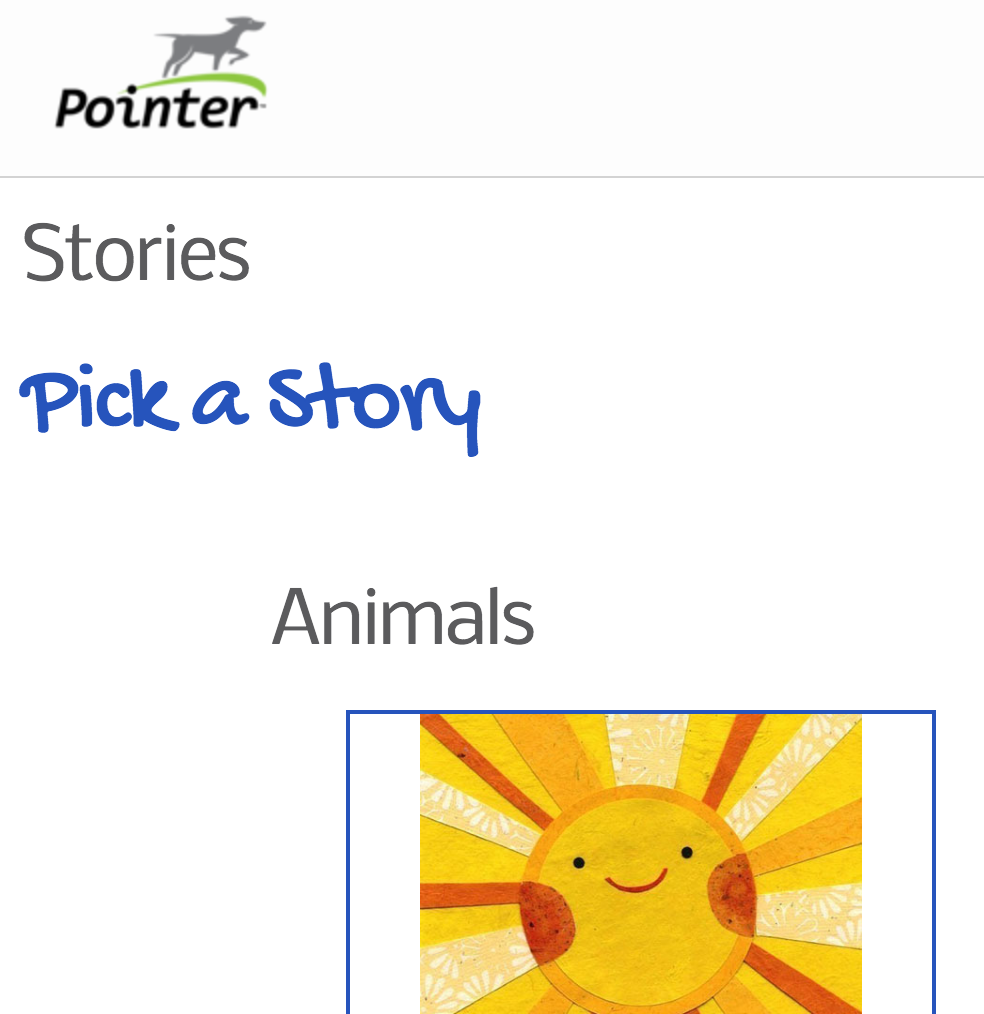
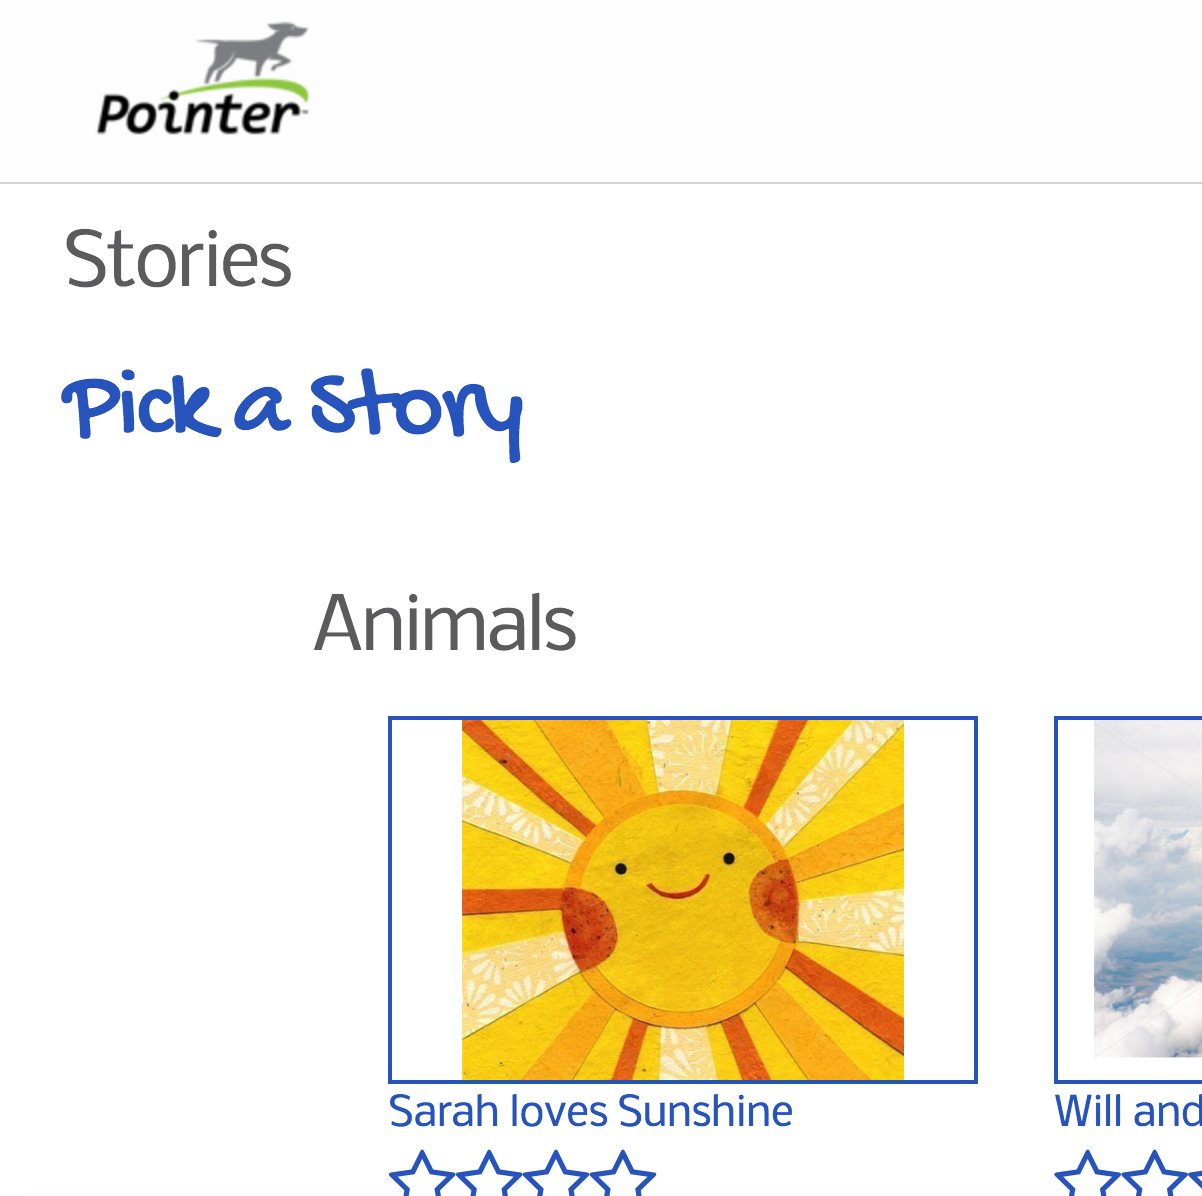
styled screenshots to get rid of space at bottom

diff --git a/styles/main.css b/styles/main.css
@@ -687,7 +687,9 @@ body {
   background-color: #DFD9CB; }
 
 .img-holder {
-  margin-bottom: 1em; }
+  margin-bottom: 2em;
+  height: 18.75em;
+  width: 18.75em; }
 
 .img-holder:hover {
   box-shadow: 7px 7px 5px #9CAA6C; }

diff --git a/styles/main.scss b/styles/main.scss
@@ -10,9 +10,9 @@ body {
 
 
 .img-holder {
-	margin-bottom: 1em; 
-	// height: 6em;
-	// width: 6em;   
+	margin-bottom: 2em; 
+	height: 18.75em;
+	width: 18.75em;  
 }
 
 .img-holder:hover {
